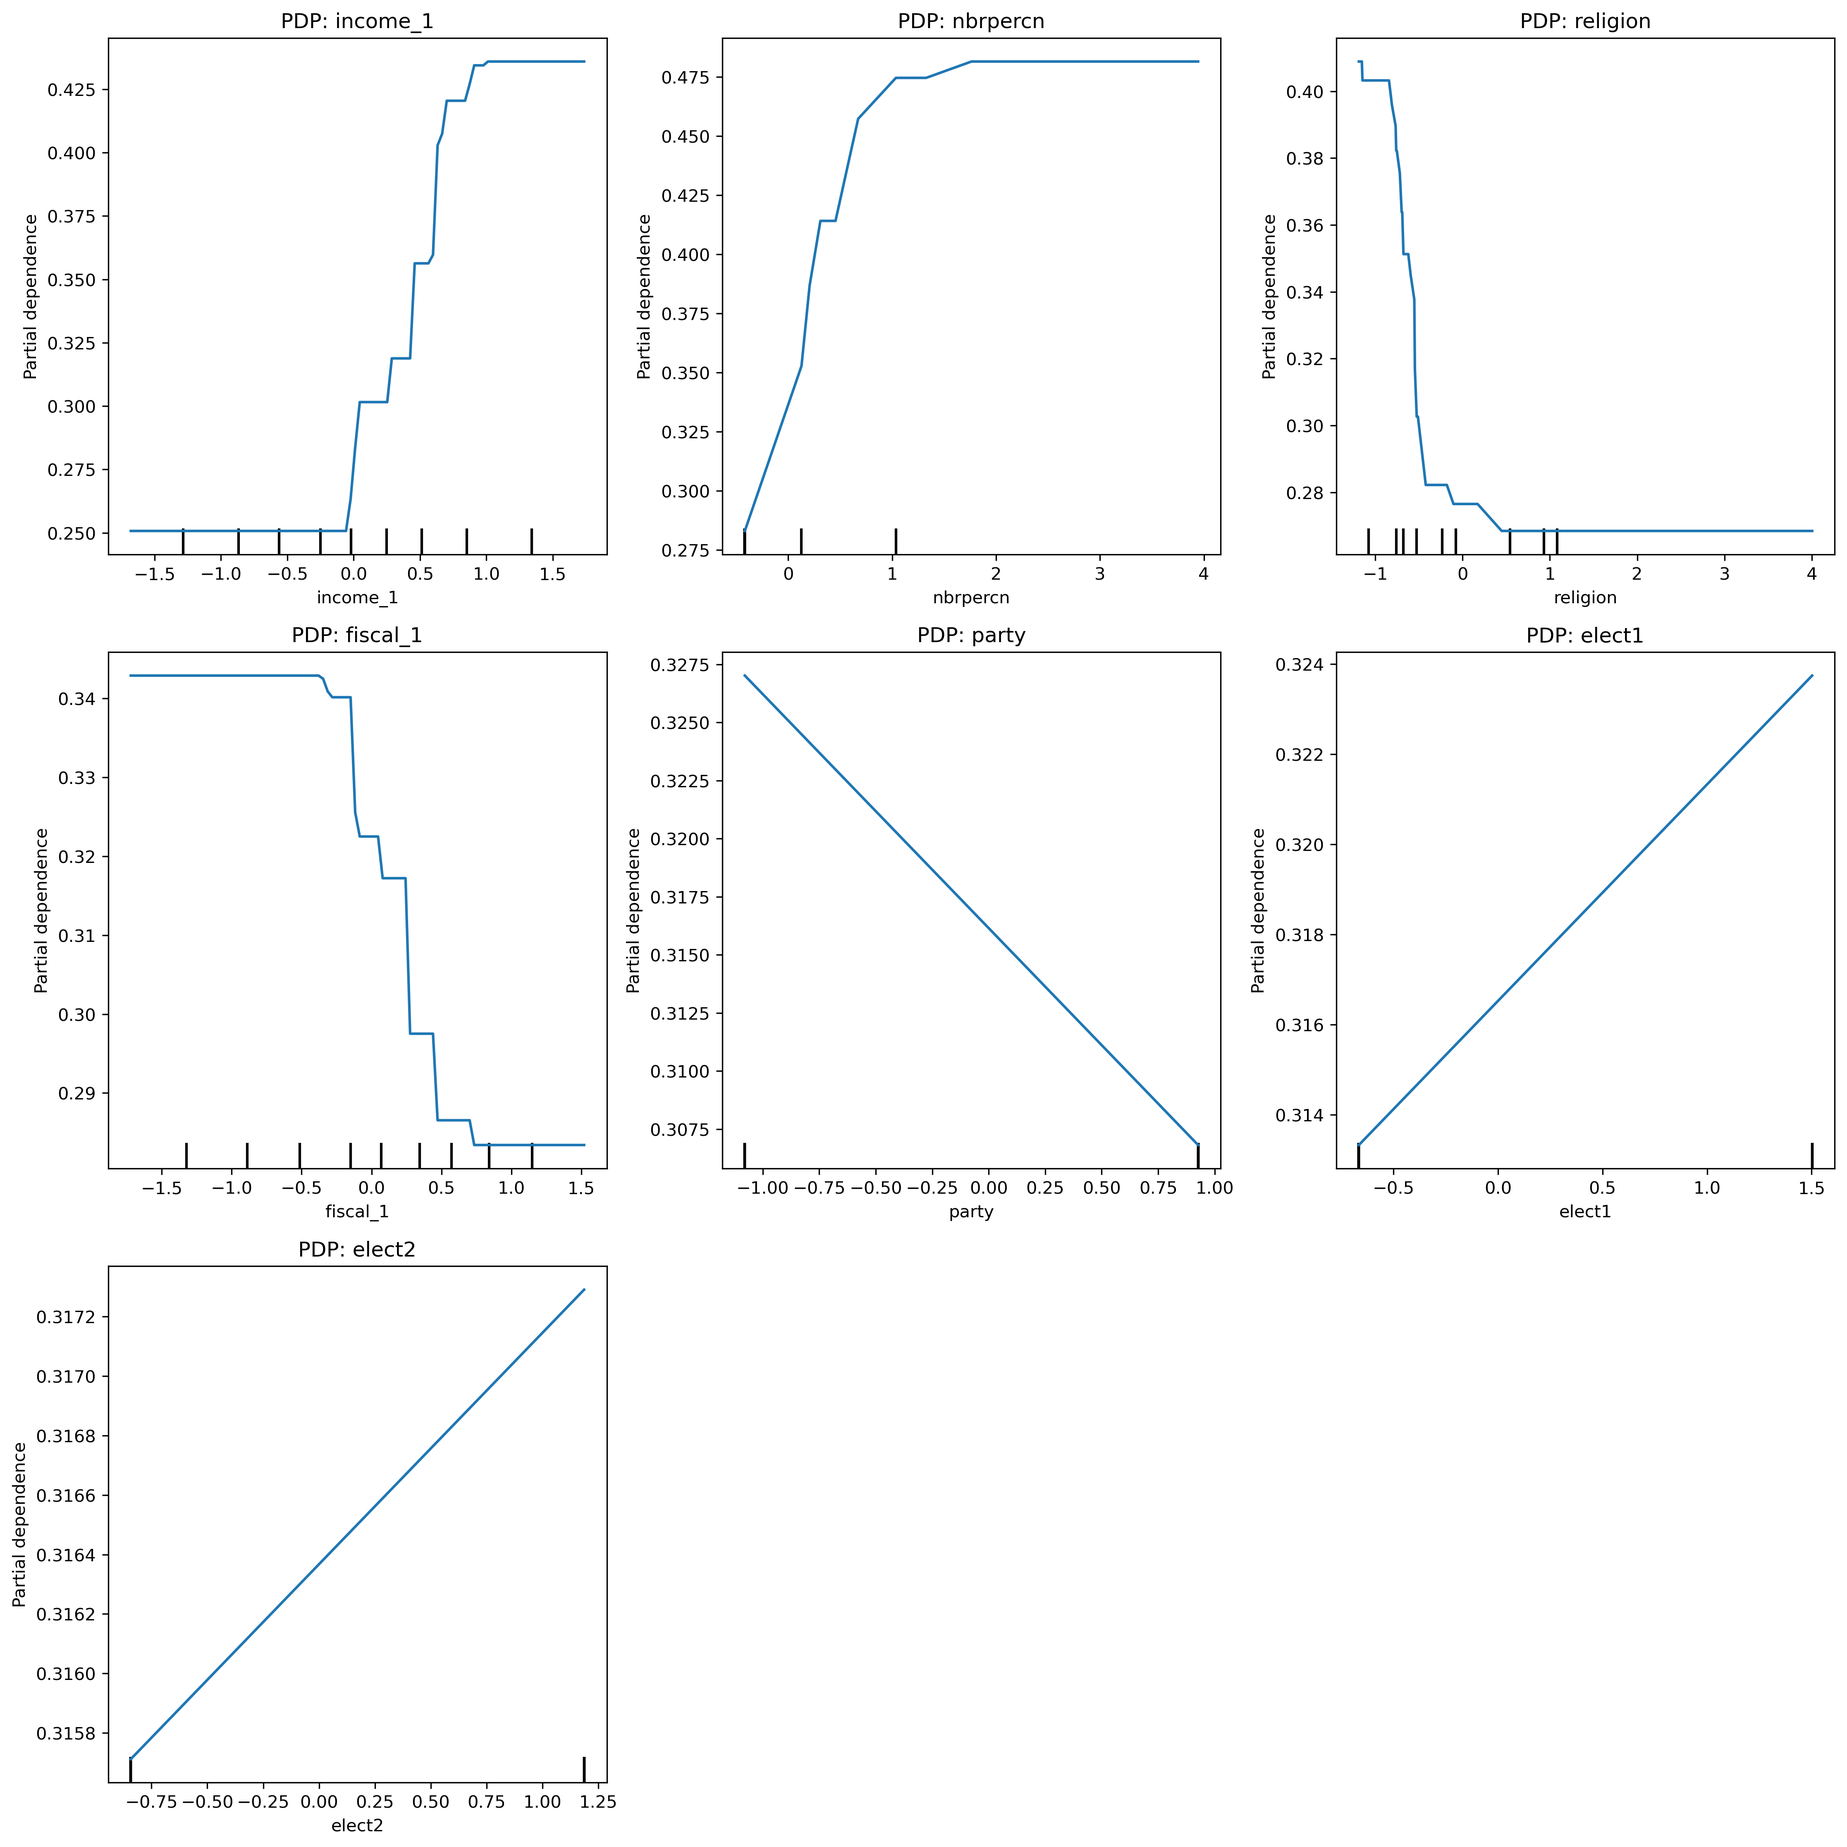
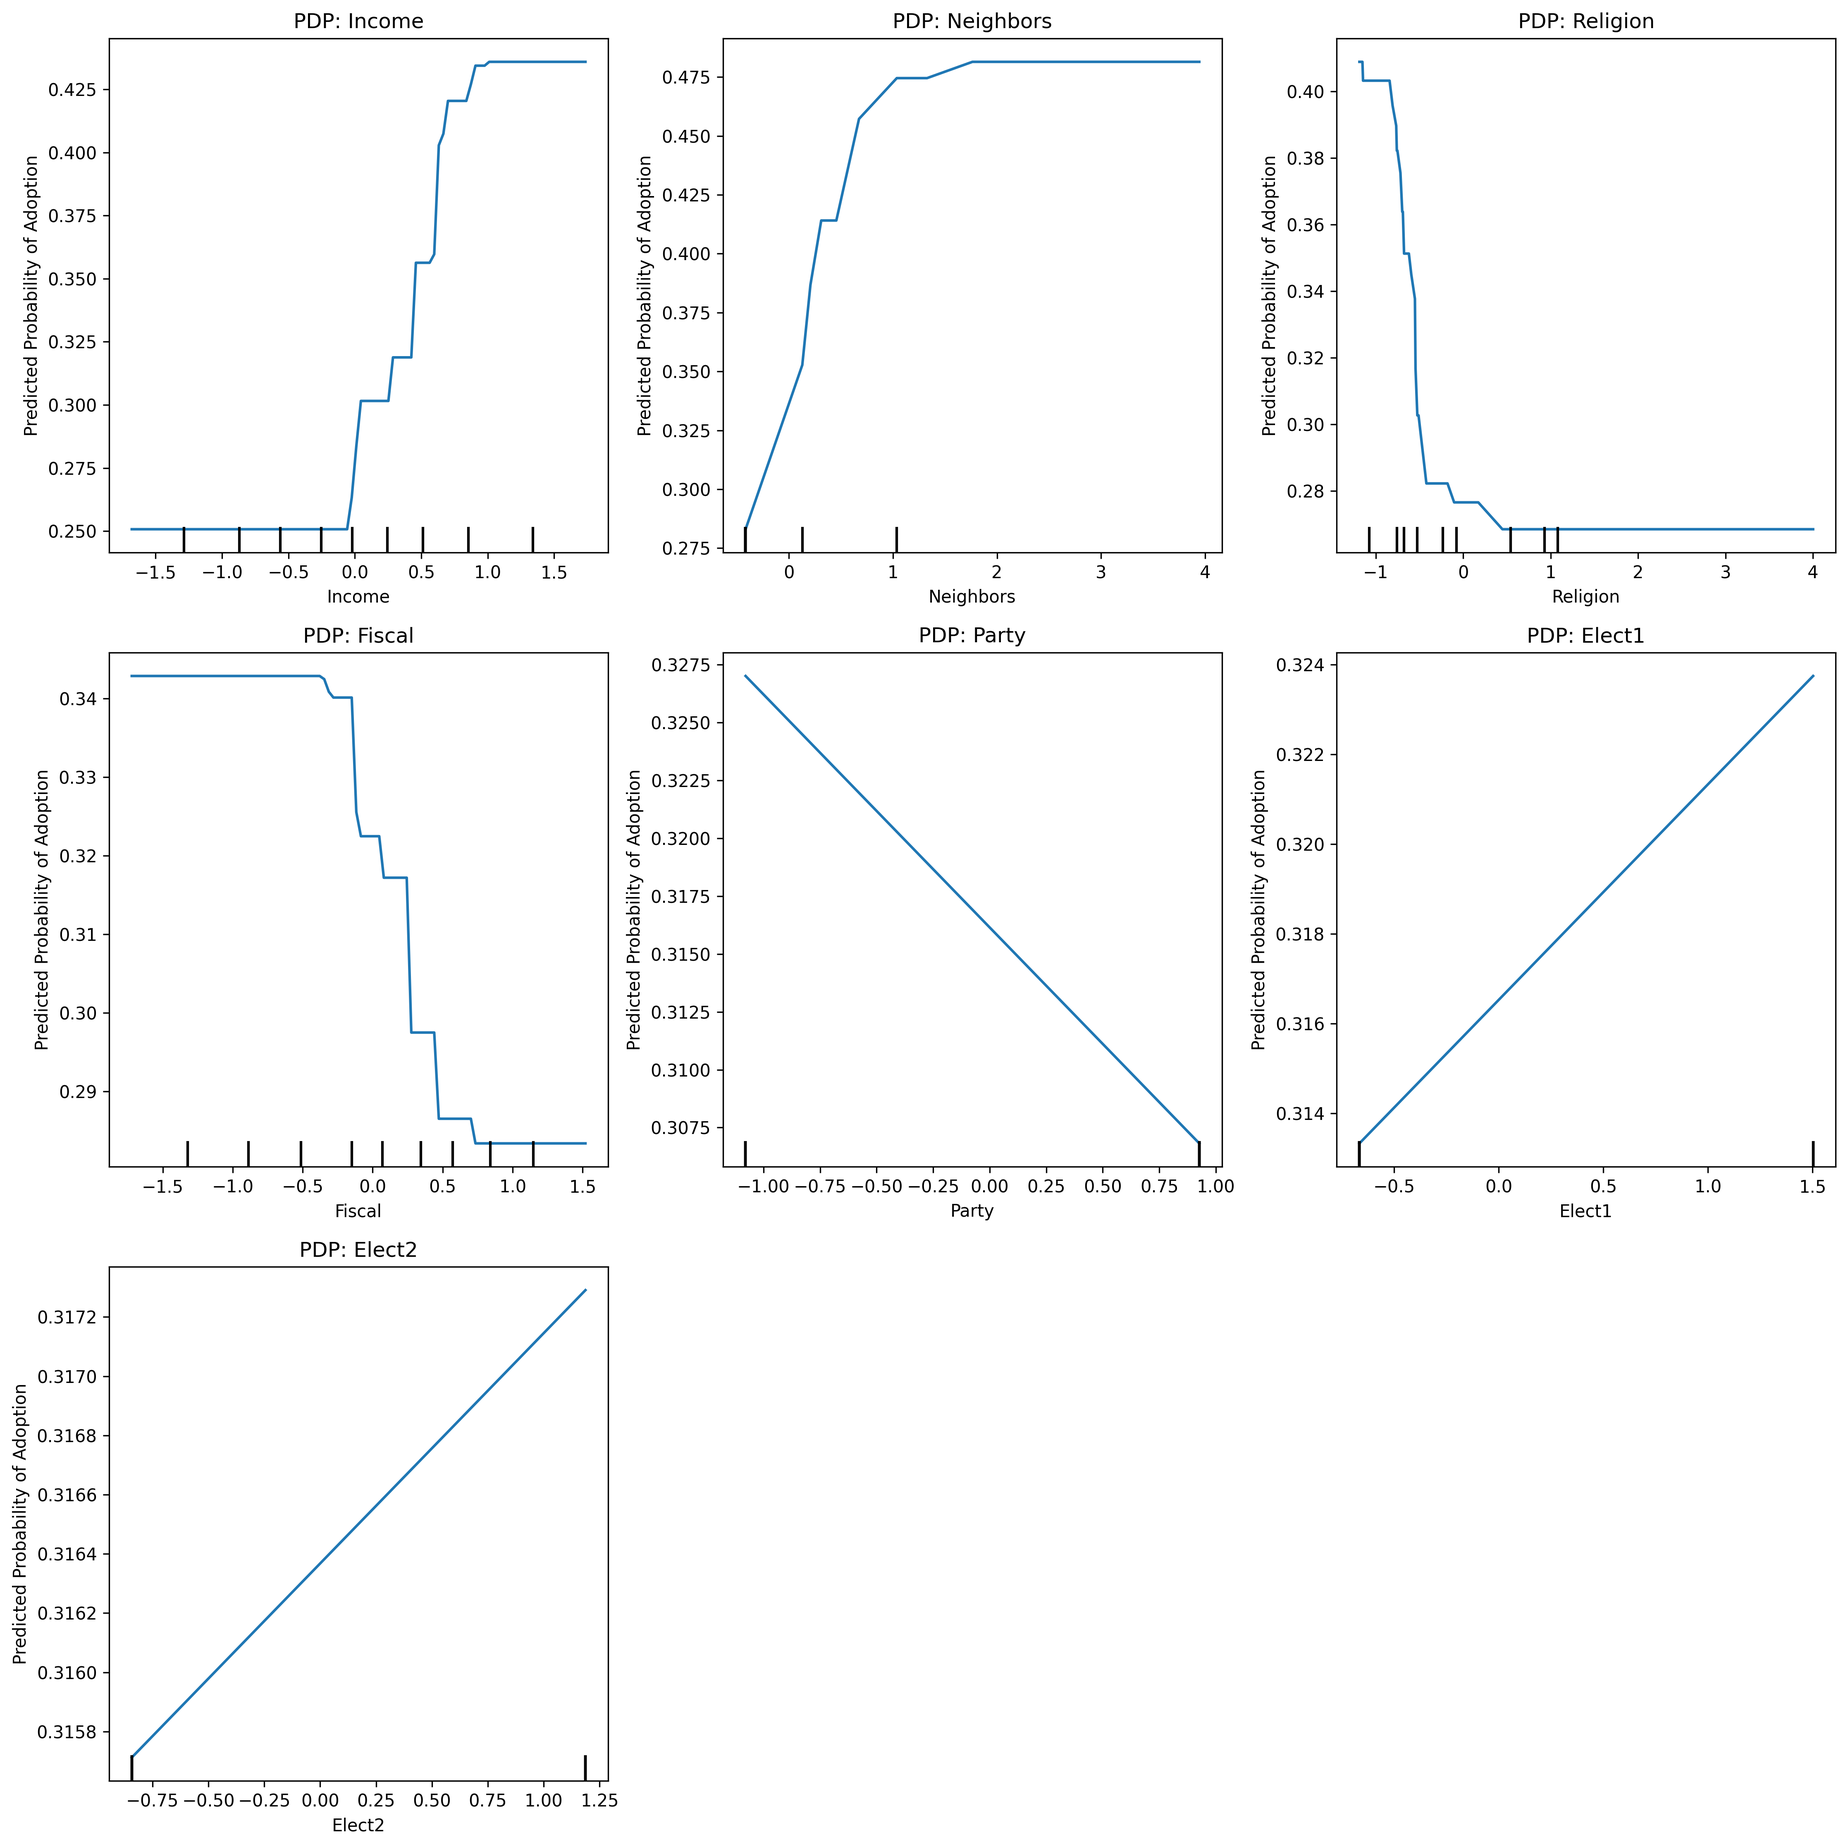
Fixed y label for PDPs.

diff --git a/ml_feature_importance/kreitzer_boehmke_feature.py b/ml_feature_importance/kreitzer_boehmke_feature.py
@@ -145,7 +145,7 @@ axes = axes.ravel()
 
 for i, feature in enumerate(top_features_rf):
     feature_idx = feature_names.index(feature)
-    PartialDependenceDisplay.from_estimator(
+    display = PartialDependenceDisplay.from_estimator(
         rf_model, 
         X_train_scaled, 
         features = [feature_idx],
@@ -155,7 +155,7 @@ for i, feature in enumerate(top_features_rf):
         response_method = 'predict_proba'
     )
     axes[i].set_title(f'PDP: {feature}')
-    axes[i].set_ylabel('Predicted Probability of Adoption')
+    display.axes_[0, 0].set_ylabel('Predicted Probability of Adoption')
 
 plt.tight_layout()
 plt.savefig('figures/kreitzer_boehmke2016/breitzer_partial_dependence_rf.png', dpi = 300, bbox_inches = 'tight')
@@ -171,7 +171,7 @@ axes = axes.ravel()
 
 for i, feature in enumerate(top_features_xgb):
     feature_idx = feature_names.index(feature)
-    PartialDependenceDisplay.from_estimator(
+    display = PartialDependenceDisplay.from_estimator(
         xgb_model, 
         X_train_scaled, 
         features = [feature_idx],
@@ -181,7 +181,7 @@ for i, feature in enumerate(top_features_xgb):
         response_method = 'predict_proba'
     )
     axes[i].set_title(f'PDP: {feature}')
-    axes[i].set_ylabel('Predicted Probability of Adoption')
+    display.axes_[0, 0].set_ylabel('Predicted Probability of Adoption')
 
 plt.tight_layout()
 plt.savefig('figures/kreitzer_boehmke2016/breitzer_partial_dependence_xgb.png', dpi = 300, bbox_inches = 'tight')

diff --git a/ml_feature_importance/bricker_lacombe_feature.py b/ml_feature_importance/bricker_lacombe_feature.py
@@ -143,7 +143,7 @@ axes = axes.ravel()
 
 for i, feature in enumerate(top_features_rf):
     feature_idx = feature_names.index(feature)
-    PartialDependenceDisplay.from_estimator(
+    display = PartialDependenceDisplay.from_estimator(
         rf_model, 
         X_train_scaled, 
         features = [feature_idx],
@@ -153,7 +153,7 @@ for i, feature in enumerate(top_features_rf):
         response_method = 'predict_proba'
     )
     axes[i].set_title(f'PDP: {feature}')
-    axes[i].set_ylabel('Predicted Probability of Adoption')
+    display.axes_[0, 0].set_ylabel('Predicted Probability of Adoption')
 
 plt.tight_layout()
 plt.savefig('figures/bricker_lacombe2021/bricker_partial_dependence_rf.png', dpi = 300, bbox_inches = 'tight')
@@ -169,7 +169,7 @@ axes = axes.ravel()
 
 for i, feature in enumerate(top_features_xgb):
     feature_idx = feature_names.index(feature)
-    PartialDependenceDisplay.from_estimator(
+    display = PartialDependenceDisplay.from_estimator(
         xgb_model, 
         X_train_scaled, 
         features = [feature_idx],
@@ -179,7 +179,7 @@ for i, feature in enumerate(top_features_xgb):
         response_method = 'predict_proba'
     )
     axes[i].set_title(f'PDP: {feature}')
-    axes[i].set_ylabel('Predicted Probability of Adoption')
+    display.axes_[0, 0].set_ylabel('Predicted Probability of Adoption')
 
 plt.tight_layout()
 plt.savefig('figures/bricker_lacombe2021/bricker_partial_dependence_xgb.png', dpi = 300, bbox_inches = 'tight')

diff --git a/ml_feature_importance/lacombe_boehmke_feature.py b/ml_feature_importance/lacombe_boehmke_feature.py
@@ -149,7 +149,7 @@ axes = axes.ravel()
 
 for i, feature in enumerate(top_features_rf):
     feature_idx = feature_names.index(feature)
-    PartialDependenceDisplay.from_estimator(
+    display = PartialDependenceDisplay.from_estimator(
         rf_model, 
         X_train_scaled, 
         features = [feature_idx],
@@ -159,7 +159,7 @@ for i, feature in enumerate(top_features_rf):
         response_method = 'predict_proba'
     )
     axes[i].set_title(f'PDP: {feature}')
-    axes[i].set_ylabel('Predicted Probability of Adoption')
+    display.axes_[0, 0].set_ylabel('Predicted Probability of Adoption')
 
 plt.tight_layout()
 plt.savefig('figures/lacombe_boehmke2021/lacombe_partial_dependence_rf.png', dpi = 300, bbox_inches = 'tight')
@@ -175,7 +175,7 @@ axes = axes.ravel()
 
 for i, feature in enumerate(top_features_xgb):
     feature_idx = feature_names.index(feature)
-    PartialDependenceDisplay.from_estimator(
+    display = PartialDependenceDisplay.from_estimator(
         xgb_model, 
         X_train_scaled, 
         features = [feature_idx],
@@ -185,7 +185,7 @@ for i, feature in enumerate(top_features_xgb):
         response_method = 'predict_proba'
     )
     axes[i].set_title(f'PDP: {feature}')
-    axes[i].set_ylabel('Predicted Probability of Adoption')
+    display.axes_[0, 0].set_ylabel('Predicted Probability of Adoption')
 
 plt.tight_layout()
 plt.savefig('figures/lacombe_boehmke2021/lacombe_partial_dependence_xgb.png', dpi = 300, bbox_inches = 'tight')

diff --git a/ml_feature_importance/mallinson_feature.py b/ml_feature_importance/mallinson_feature.py
@@ -138,7 +138,7 @@ axes = axes.ravel()
 
 for i, feature in enumerate(top_features_rf):
     feature_idx = feature_names.index(feature)
-    PartialDependenceDisplay.from_estimator(
+    display = PartialDependenceDisplay.from_estimator(
         rf_model, 
         X_train_scaled, 
         features = [feature_idx],
@@ -148,7 +148,7 @@ for i, feature in enumerate(top_features_rf):
         response_method = 'predict_proba'
     )
     axes[i].set_title(f'PDP: {feature}')
-    axes[i].set_ylabel('Predicted Probability of Adoption')
+    display.axes_[0, 0].set_ylabel('Predicted Probability of Adoption')
 
 plt.tight_layout()
 plt.savefig('figures/mallinson2019/mallinson_partial_dependence_rf.png', dpi = 300, bbox_inches = 'tight')
@@ -163,7 +163,7 @@ axes = axes.ravel()
 
 for i, feature in enumerate(top_features_xgb):
     feature_idx = feature_names.index(feature)
-    PartialDependenceDisplay.from_estimator(
+    display = PartialDependenceDisplay.from_estimator(
         xgb_model, 
         X_train_scaled, 
         features = [feature_idx],
@@ -173,7 +173,7 @@ for i, feature in enumerate(top_features_xgb):
         response_method = 'predict_proba'
     )
     axes[i].set_title(f'PDP: {feature}')
-    axes[i].set_ylabel('Predicted Probability of Adoption')
+    display.axes_[0, 0].set_ylabel('Predicted Probability of Adoption')
 
 plt.tight_layout()
 plt.savefig('figures/mallinson2019/mallinson_partial_dependence_xgb.png', dpi = 300, bbox_inches = 'tight')

diff --git a/ml_feature_importance/parinandi_feature.py b/ml_feature_importance/parinandi_feature.py
@@ -147,7 +147,7 @@ axes = axes.ravel()
 
 for i, feature in enumerate(top_features_rf):
     feature_idx = feature_names.index(feature)
-    PartialDependenceDisplay.from_estimator(
+    display = PartialDependenceDisplay.from_estimator(
         rf_model, 
         X_train_scaled, 
         features = [feature_idx],
@@ -157,7 +157,7 @@ for i, feature in enumerate(top_features_rf):
         response_method = 'predict_proba'
     )
     axes[i].set_title(f'PDP: {feature}')
-    axes[i].set_ylabel('Predicted Probability of Adoption')
+    display.axes_[0, 0].set_ylabel('Predicted Probability of Adoption')
 
 plt.tight_layout()
 plt.savefig('figures/parinandi2020/parinandi_partial_dependence_rf.png', dpi = 300, bbox_inches = 'tight')
@@ -172,7 +172,7 @@ axes = axes.ravel()
 
 for i, feature in enumerate(top_features_xgb):
     feature_idx = feature_names.index(feature)
-    PartialDependenceDisplay.from_estimator(
+    display = PartialDependenceDisplay.from_estimator(
         xgb_model, 
         X_train_scaled, 
         features = [feature_idx],
@@ -182,7 +182,7 @@ for i, feature in enumerate(top_features_xgb):
         response_method = 'predict_proba'
     )
     axes[i].set_title(f'PDP: {feature}')
-    axes[i].set_ylabel('Predicted Probability of Adoption')
+    display.axes_[0, 0].set_ylabel('Predicted Probability of Adoption')
 
 plt.tight_layout()
 plt.savefig('figures/parinandi2020/parinandi_partial_dependence_xgb.png', dpi = 300, bbox_inches = 'tight')

diff --git a/ml_feature_importance/boehmke_feature.py b/ml_feature_importance/boehmke_feature.py
@@ -144,7 +144,7 @@ axes = axes.ravel()
 
 for i, feature in enumerate(top_features_rf):
     feature_idx = feature_names.index(feature)
-    PartialDependenceDisplay.from_estimator(
+    display = PartialDependenceDisplay.from_estimator(
         rf_model, 
         X_train_scaled, 
         features = [feature_idx],
@@ -154,7 +154,7 @@ for i, feature in enumerate(top_features_rf):
         response_method = 'predict_proba'
     )
     axes[i].set_title(f'PDP: {feature}')
-    axes[i].set_ylabel('Predicted Probability of Adoption')
+    display.axes_[0, 0].set_ylabel('Predicted Probability of Adoption')
 
 plt.tight_layout()
 plt.savefig('figures/boehmke2017/boehmke_partial_dependence_rf.png', dpi = 300, bbox_inches = 'tight')
@@ -170,7 +170,7 @@ axes = axes.ravel()
 
 for i, feature in enumerate(top_features_xgb):
     feature_idx = feature_names.index(feature)
-    PartialDependenceDisplay.from_estimator(
+    display = PartialDependenceDisplay.from_estimator(
         xgb_model, 
         X_train_scaled, 
         features = [feature_idx],
@@ -180,7 +180,7 @@ for i, feature in enumerate(top_features_xgb):
         response_method = 'predict_proba'
     )
     axes[i].set_title(f'PDP: {feature}')
-    axes[i].set_ylabel('Predicted Probability of Adoption')
+    display.axes_[0, 0].set_ylabel('Predicted Probability of Adoption')
 
 plt.tight_layout()
 plt.savefig('figures/boehmke2017/boehmke_partial_dependence_xgb.png', dpi = 300, bbox_inches = 'tight')

diff --git a/ml_feature_importance/boushey_feature.py b/ml_feature_importance/boushey_feature.py
@@ -151,7 +151,7 @@ axes = axes.ravel()
 
 for i, feature in enumerate(top_features_rf):
     feature_idx = feature_names.index(feature)
-    PartialDependenceDisplay.from_estimator(
+    display = PartialDependenceDisplay.from_estimator(
         rf_model, 
         X_train_scaled, 
         features = [feature_idx],
@@ -161,7 +161,7 @@ for i, feature in enumerate(top_features_rf):
         response_method = 'predict_proba'
     )
     axes[i].set_title(f'PDP: {feature}')
-    axes[i].set_ylabel('Predicted Probability of Adoption')
+    display.axes_[0, 0].set_ylabel('Predicted Probability of Adoption')
 
 plt.tight_layout()
 plt.savefig('figures/boushey2016/boushey_partial_dependence_rf.png', dpi = 300, bbox_inches = 'tight')
@@ -176,7 +176,7 @@ axes = axes.ravel()
 
 for i, feature in enumerate(top_features_xgb):
     feature_idx = feature_names.index(feature)
-    PartialDependenceDisplay.from_estimator(
+    display = PartialDependenceDisplay.from_estimator(
         xgb_model, 
         X_train_scaled, 
         features = [feature_idx],
@@ -186,7 +186,7 @@ for i, feature in enumerate(top_features_xgb):
         response_method = 'predict_proba'
     )
     axes[i].set_title(f'PDP: {feature}')
-    axes[i].set_ylabel('Predicted Probability of Adoption')
+    display.axes_[0, 0].set_ylabel('Predicted Probability of Adoption')
 
 plt.tight_layout()
 plt.savefig('figures/boushey2016/boushey_partial_dependence_xgb.png', dpi = 300, bbox_inches = 'tight')

diff --git a/ml_feature_importance/karch_feature.py b/ml_feature_importance/karch_feature.py
@@ -163,7 +163,7 @@ axes = axes.ravel()
 
 for i, feature in enumerate(top_features_rf):
     feature_idx = feature_names.index(feature)
-    PartialDependenceDisplay.from_estimator(
+    display = PartialDependenceDisplay.from_estimator(
         rf_model, 
         X_train_scaled, 
         features = [feature_idx],
@@ -173,7 +173,7 @@ for i, feature in enumerate(top_features_rf):
         response_method = 'predict_proba'
     )
     axes[i].set_title(f'PDP: {feature}')
-    axes[i].set_ylabel('Predicted Probability of Adoption')
+    display.axes_[0, 0].set_ylabel('Predicted Probability of Adoption')
 
 plt.tight_layout()
 plt.savefig('figures/karch2016/karch_partial_dependence_rf.png', dpi = 300, bbox_inches = 'tight')
@@ -188,7 +188,7 @@ axes = axes.ravel()
 
 for i, feature in enumerate(top_features_xgb):
     feature_idx = feature_names.index(feature)
-    PartialDependenceDisplay.from_estimator(
+    display = PartialDependenceDisplay.from_estimator(
         xgb_model, 
         X_train_scaled, 
         features = [feature_idx],
@@ -198,7 +198,7 @@ for i, feature in enumerate(top_features_xgb):
         response_method = 'predict_proba'
     )
     axes[i].set_title(f'PDP: {feature}')
-    axes[i].set_ylabel('Predicted Probability of Adoption')
+    display.axes_[0, 0].set_ylabel('Predicted Probability of Adoption')
 
 plt.tight_layout()
 plt.savefig('figures/karch2016/karch_partial_dependence_xgb.png', dpi = 300, bbox_inches = 'tight')

diff --git a/ml_feature_importance/berry_berry_feature.py b/ml_feature_importance/berry_berry_feature.py
@@ -127,7 +127,7 @@ axes = axes.ravel()
 
 for i, feature in enumerate(top_features_rf):
     feature_idx = feature_names.index(feature)
-    PartialDependenceDisplay.from_estimator(
+    display = PartialDependenceDisplay.from_estimator(
         rf_model, 
         X_train_scaled, 
         features = [feature_idx],
@@ -137,7 +137,7 @@ for i, feature in enumerate(top_features_rf):
         response_method = 'predict_proba'
     )
     axes[i].set_title(f'PDP: {feature}')
-    axes[i].set_ylabel('Predicted Probability of Adoption')
+    display.axes_[0, 0].set_ylabel('Predicted Probability of Adoption')
 
 # Hide unused subplots
 for j in range(len(top_features_rf), len(axes)):
@@ -156,7 +156,7 @@ axes = axes.ravel()
 
 for i, feature in enumerate(top_features_xgb):
     feature_idx = feature_names.index(feature)
-    PartialDependenceDisplay.from_estimator(
+    display = PartialDependenceDisplay.from_estimator(
         xgb_model, 
         X_train_scaled, 
         features = [feature_idx],
@@ -166,7 +166,7 @@ for i, feature in enumerate(top_features_xgb):
         response_method = 'predict_proba'
     )
     axes[i].set_title(f'PDP: {feature}')
-    axes[i].set_ylabel('Predicted Probability of Adoption')
+    display.axes_[0, 0].set_ylabel('Predicted Probability of Adoption')
 
 # Hide unused subplots
 for j in range(len(top_features_xgb), len(axes)):
